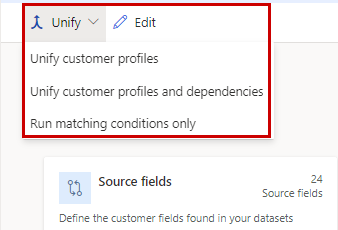
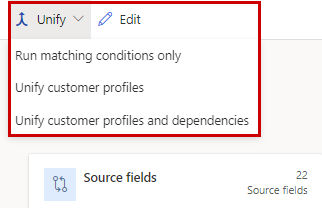
Customer feedback changes

Changed region(s): [[0.0, 0.0, 1.0, 0.6635], [0.1242, 0.75, 0.9627, 0.9808], [0.7764, 0.75, 0.9627, 0.8654]]

diff --git a/ci-docs/data-unification-update.md b/ci-docs/data-unification-update.md
@@ -1,7 +1,7 @@
 ---
 title: "Update the unification settings"
 description: "Update duplicate rules, match rules, or unified fields in the unification settings."
-ms.date: 05/04/2022
+ms.date: 06/01/2022
 
 ms.subservice: audience-insights
 ms.topic: tutorial
@@ -39,8 +39,8 @@ To review or change any unification settings once a unified profile has been cre
 
    :::image type="content" source="media/m3_run_match_merge.png" alt-text="Screenshot of the Data Unify page with the Unify options highlighted.":::
 
+   - To evaluate the quality of your matching conditions (deduplication and match rules) without updating the unified profile, see [Run matching conditions](#run-matching-conditions). The **Run matching conditions only** option doesn't display for single entity.
    - To update the unified customer profile (with or without dependencies), see [Run updates to the customer profile](#run-updates-to-the-unified-customer-profile).
-   - To evaluate the quality of your matching conditions without updating the unified profile, see [Run matching conditions](#run-matching-conditions). The **Run matching conditions only** option doesn't display for single entity.
 
 ## Edit source fields
 
@@ -131,6 +131,8 @@ You can reconfigure and fine-tune most of the match parameters. You can't add or
 
 ## Run matching conditions
 
+Run matching conditions runs deduplication and match rules only and updates the Deduplication and ConflationMatchPair entities.
+
 1. From the **Data** > **Unify** page, select **Run matching conditions only**.
 
    The **Duplicate records** and **Matching conditions** tiles show **Queued** or **Refreshing**.
@@ -149,9 +151,9 @@ You can reconfigure and fine-tune most of the match parameters. You can't add or
 
 1. From the **Data** > **Unify** page, select:
 
-   - **Unify customer profiles**: Updates the unified customer profile entity without impacting dependencies (such as enrichments, segments, or measures). Dependent processes aren't run, but will be refreshed as [defined in the refresh schedule](system.md#schedule-tab).
+   - **Unify customer profiles**: Runs matching conditions and updates the unified customer profile entity without impacting dependencies (such as enrichments, segments, or measures). Dependent processes aren't run, but will be refreshed as [defined in the refresh schedule](system.md#schedule-tab).
 
-   - **Unify customer profiles and dependencies**: Updates the unified profile and all dependencies. All processes are rerun automatically. After all downstream processes have completed, the customer profile reflects the updated data.
+   - **Unify customer profiles and dependencies**: Runs matching conditions and updates the unified profile and all dependencies. All processes are rerun automatically. After all downstream processes have completed, the customer profile reflects the updated data.
 
    The **Duplicate records**, **Matching conditions**, and **Unified customer fields** tiles show **Queued** or **Refreshing**.
 

diff --git a/ci-docs/includes/m3-task-details.md b/ci-docs/includes/m3-task-details.md
@@ -1,3 +1,5 @@
-To check the status of the process, select **Refreshing**. The **Task details** pane displays. Under each task, you can select **See details** for more progress information.
+Select **Refreshing** to open the **Progress details** pane and view the progress of the tasks. To cancel the job, select **Cancel job** at the bottom of the pane. Under each task, you can select **See details** for more progress information, such as processing time, the last processing date, and any applicable errors and warnings associated with the task or process.
+
+![Progress details pane](../media/progress-details.png)
 
 The results of a successful run display on the **Unify** page showing the number of unified customer profiles.
